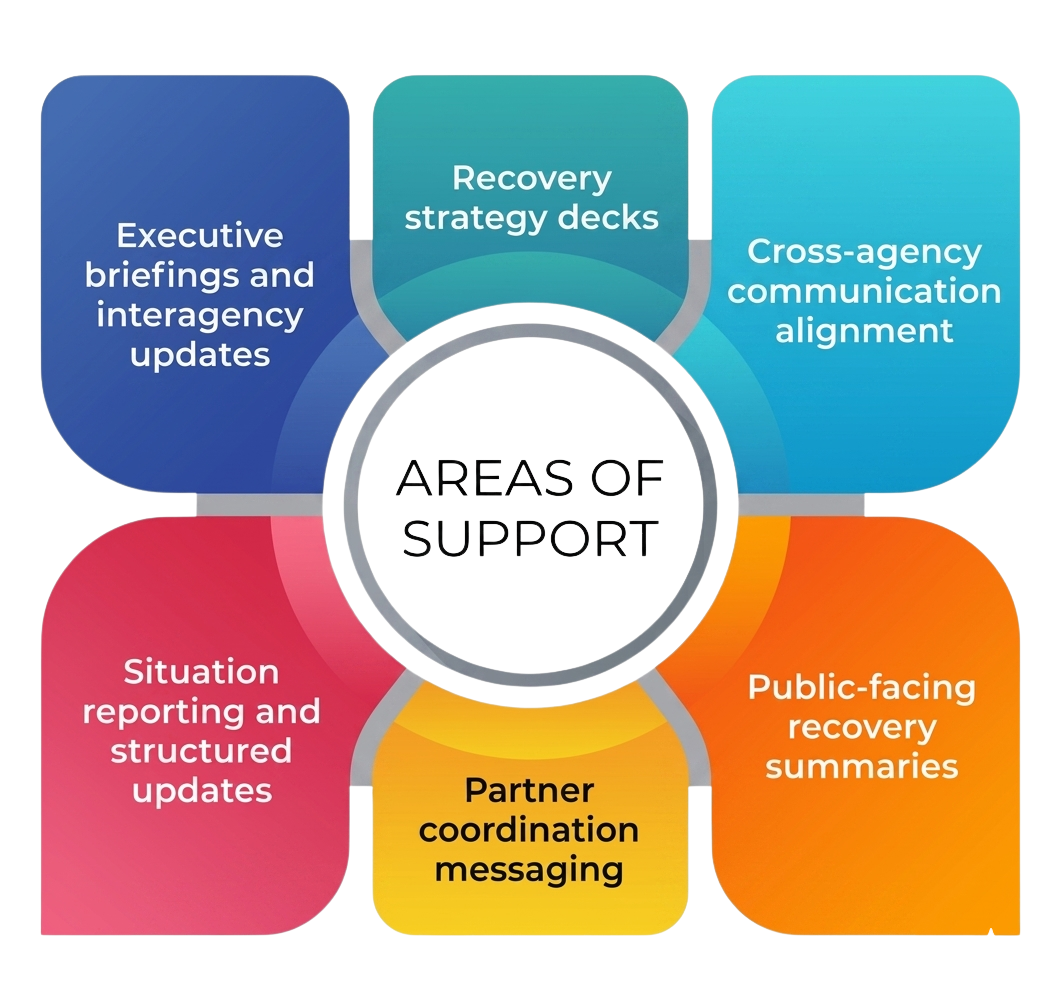
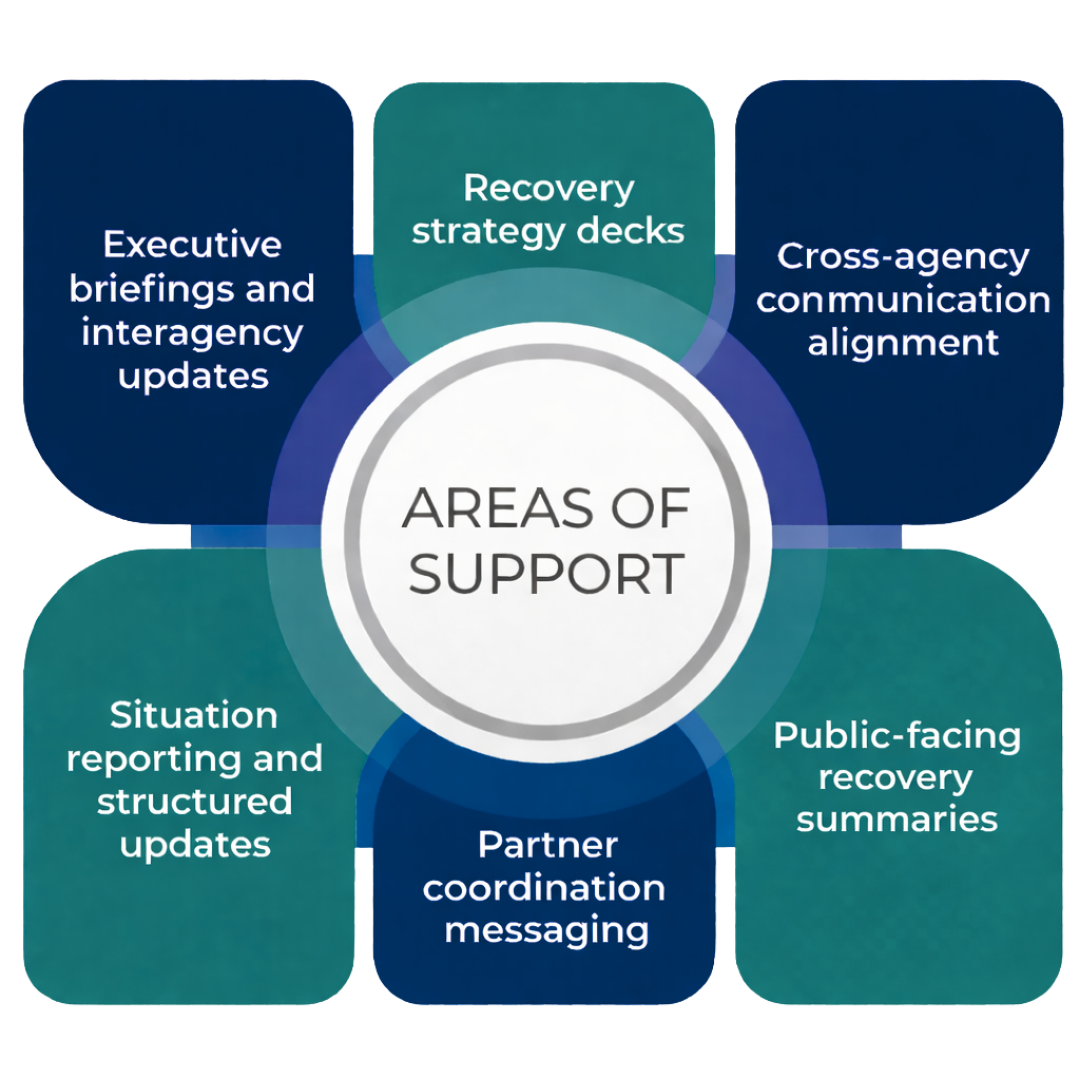
Infographic update, ch works fade animation, fixed experience section in crisis communication

diff --git a/Frontend/src/Components/Pages/AboutPages/OurApproach/CoordinationHub/CHWorks.jsx b/Frontend/src/Components/Pages/AboutPages/OurApproach/CoordinationHub/CHWorks.jsx
@@ -1,10 +1,18 @@
 import React from "react";
+import { motion } from "framer-motion"; 
 import "./CHWorks.css";
 import infographic from "../../../../../assets/ch-infographic.png"
 
 export default function CHWork() {
   return (
-    <section className="how-it-works">
+    <motion.section 
+      className="how-it-works"
+      /* Fade Logic */
+      initial={{ opacity: 0 }}
+      whileInView={{ opacity: 1 }}
+      viewport={{ once: true, amount: 0.2 }} // Triggers when 20% is visible
+      transition={{ duration: 0.6, ease: "easeOut" }}
+    >
       <p className="chwork-eyebrow">Our Approach</p>
       <h2 className="chwork-title">
         Connecting Priorities, Funding, and Execution
@@ -32,12 +40,9 @@ export default function CHWork() {
         />
       </div>
 
-      {/* ── Footer note (left-aligned, bold) ── */}
       <p className="section-footer">
         This creates a more structured path from planning to execution.
       </p>
-    </section>
+    </motion.section>
   );
-
-
 }

diff --git a/Frontend/src/Components/Pages/AboutPages/OurApproach/CoordinationHub/CHWorks.css b/Frontend/src/Components/Pages/AboutPages/OurApproach/CoordinationHub/CHWorks.css
@@ -5,6 +5,7 @@
   margin: 0 auto;
   font-family: var(--font-sans);
   box-sizing: border-box;
+  will-change: opacity;
 }
   
 /* --- Eyebrow (not unibrow) ---- */
@@ -59,6 +60,8 @@
     text-align: center;
     line-height: 1.5;
 }
+
+
   
   /* -- Responsive i tried, im just a girl---- */
   @media (max-width: 786px) {

diff --git a/Frontend/src/Components/Pages/FocusAreasPages/CrisisCommunication/CC.css b/Frontend/src/Components/Pages/FocusAreasPages/CrisisCommunication/CC.css
@@ -226,12 +226,11 @@
 }
 
 .cc-experience-footer {
-  font-size: 22px;
+  font-size: 19px;
   color: #0B1F3A;
-  margin-top: 40px;
-  padding-top: 40px;
-  border-top: 3px solid #F47A20; 
-}
+
+  
+} 
 
 .cc-experience-footer strong {
   font-weight: 800;

diff --git a/Frontend/src/Components/Pages/AboutPages/OurMission/OurMission.css b/Frontend/src/Components/Pages/AboutPages/OurMission/OurMission.css
@@ -146,7 +146,7 @@
 
 /* Stagger the cards so they don't all pop in at the exact same millisecond */
 .cards-section.reveal-visible {
-    transition-delay: 0.2s;
+    transition-delay: 3.2s;
 }
 
 @media (max-width: 768px) {
